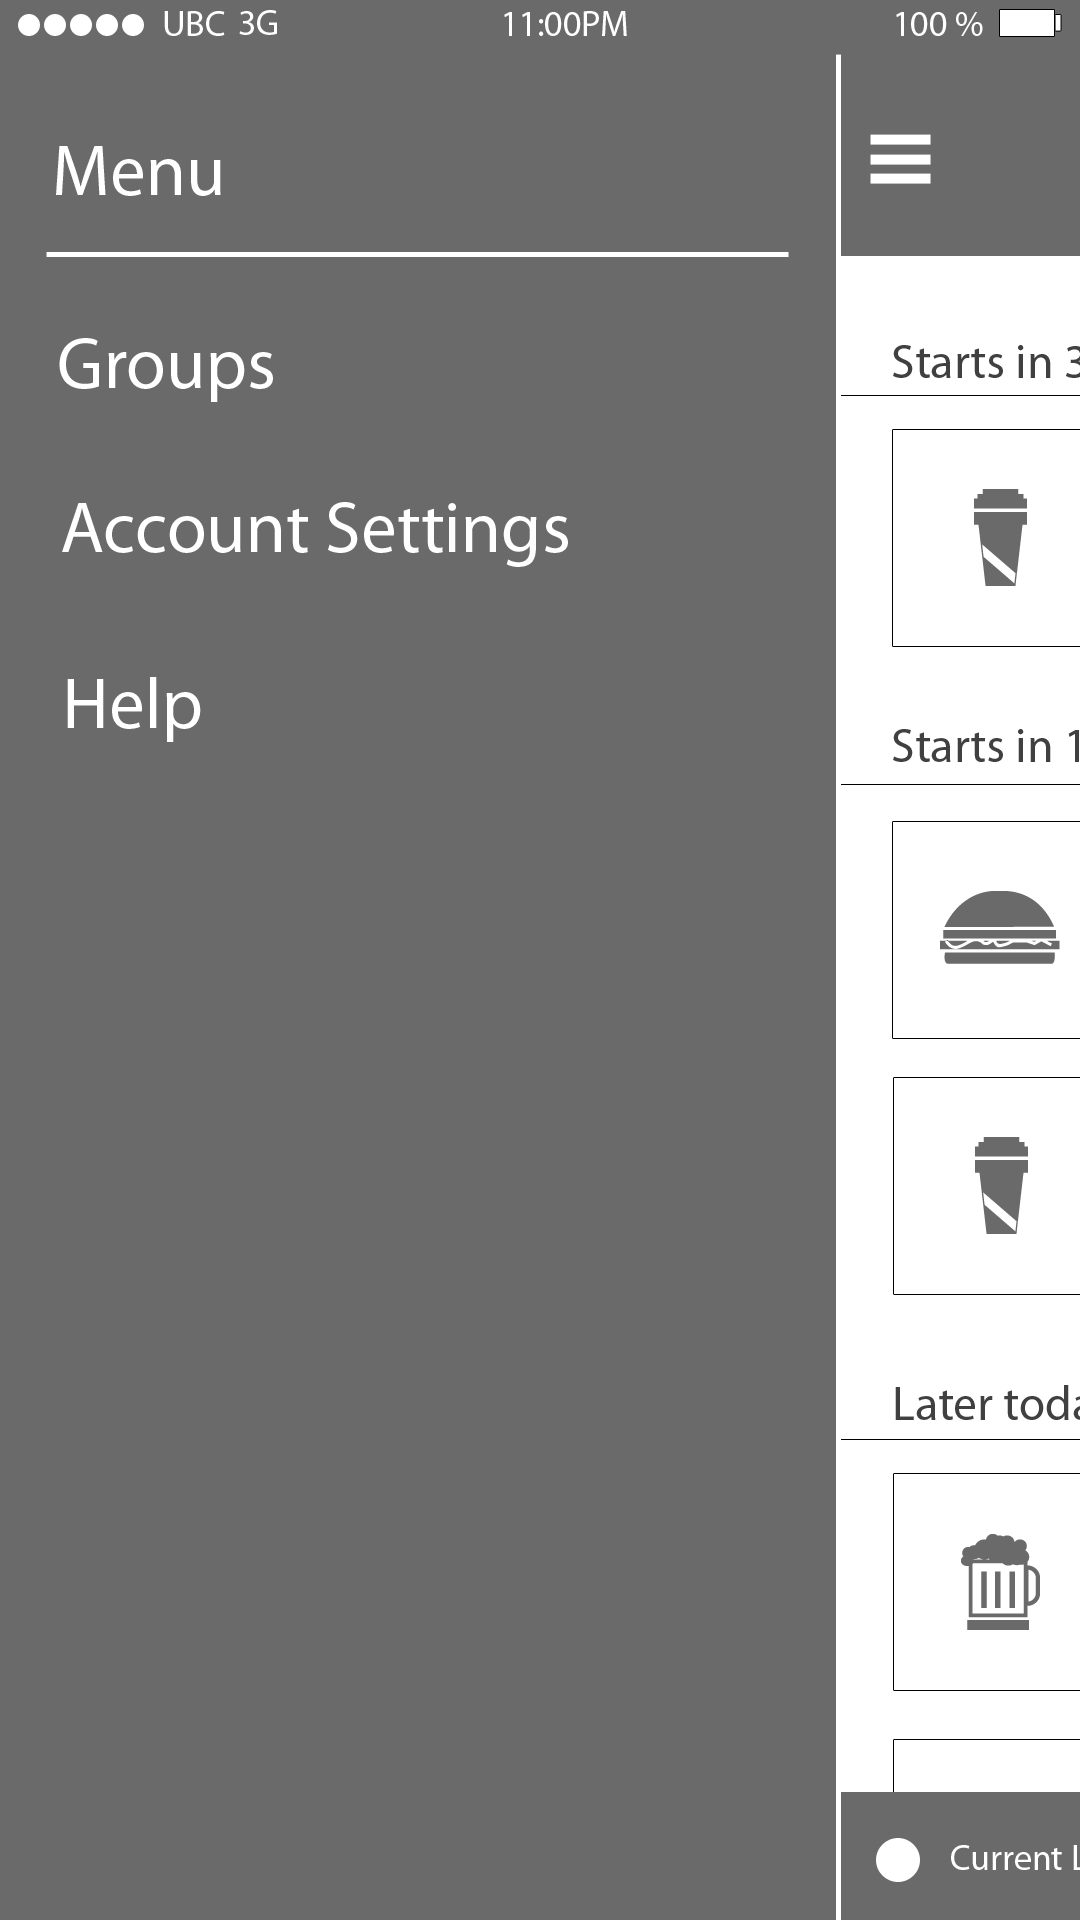
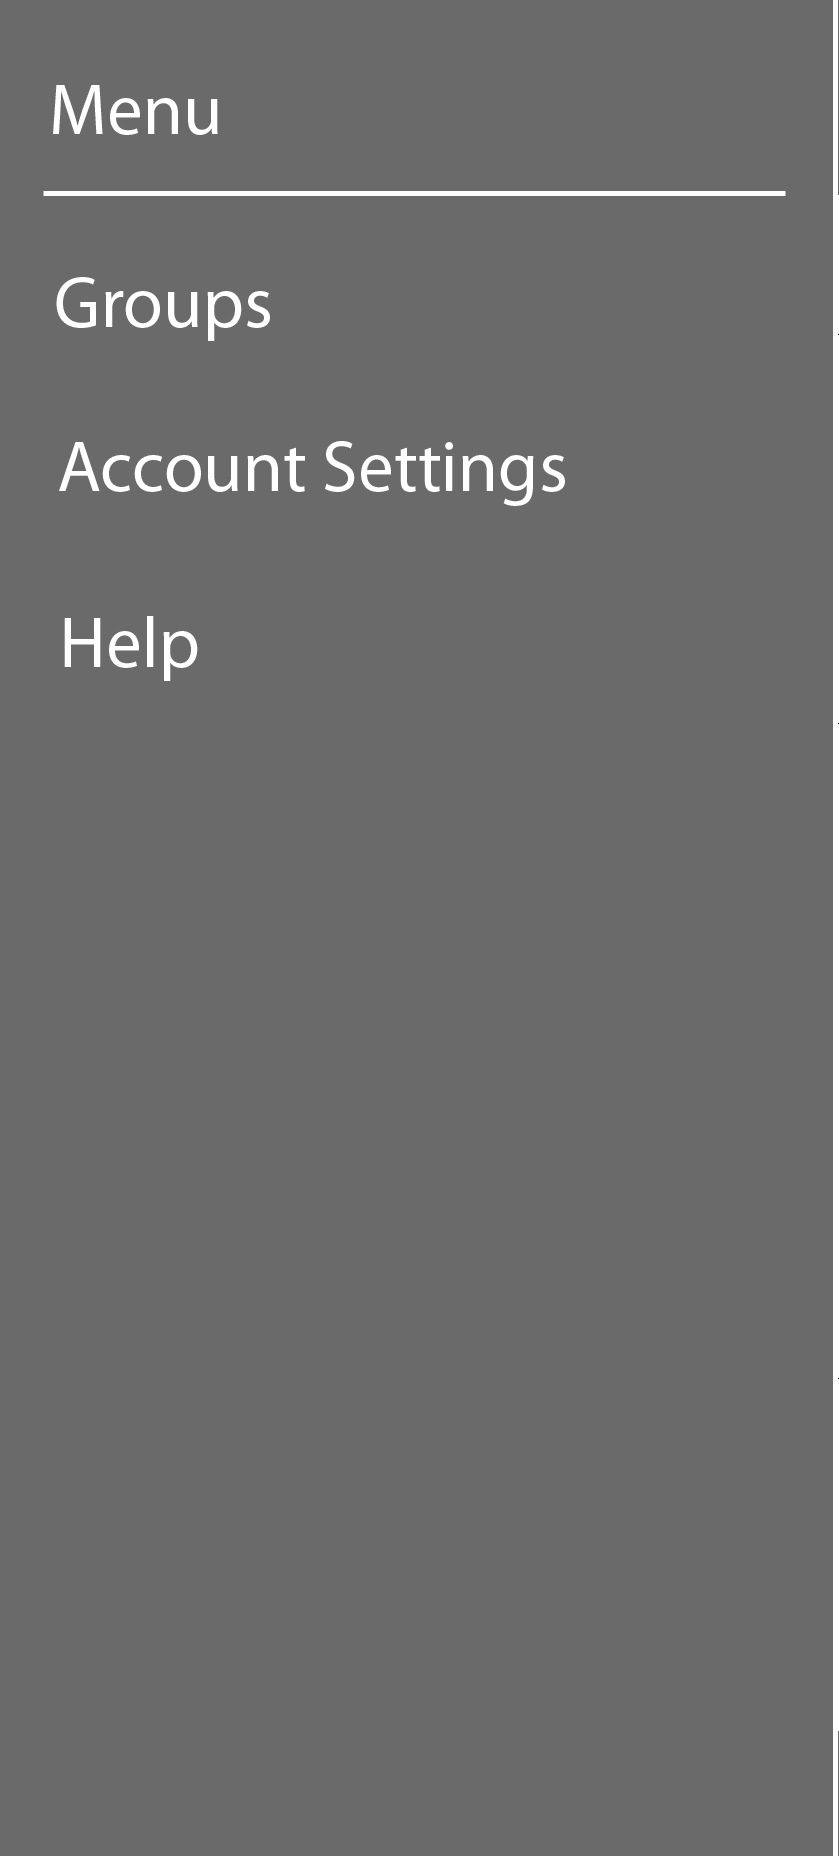
Working main menu scroll out

diff --git a/meetup.js b/meetup.js
@@ -30,6 +30,7 @@ function navigation(target) {
 function clearPage() {
 	$('#textAreas').html("");
 	$('.img').attr('usemap', '');
+	$('#overlayImageBlock').html("");
 }
 
 /**
@@ -57,8 +58,16 @@ function changeScreen(title) {
 
 	if (title == "mainMenu") {
 		// load main menu into overlay block
-		//$('#overlayImageBlock').css();
-		$('#overlayImageBlock').html("<img class='img' src = '" + imageUrl + "' usemap='" + "#" + title + "'>");
+
+		// make sure menu is off screen initially
+		$('#overlayImageBlock').css('left', '-500px');
+		$('#overlayImageBlock').html("<img class='img' src = '" + imageUrl + "'>");
+		$('.img').attr('usemap', title);
+
+		// anime menu to scroll out
+		$("#overlayImageBlock").animate({
+			left:'0px'
+		});
 	} else {
 		// update image block with new image and map
 		$('#imageBlock').html("<img class='img' src = '" + imageUrl + "' usemap='" + "#" + title + "'>");

diff --git a/home.html b/home.html
@@ -32,6 +32,11 @@
 		<area title="mainMenu" shape="rect" coords="5, 35, 67, 90" href="#">
 	</map>
 
+	<!-- map for mainMenu includes: -->
+	<map name="mainMenu">
+		<area title="mainLobby" shape="rect" coords="338, 0, 421, 747" href="#">
+	</map>
+
 	<!-- debug delete this laterz -->
 	<div id="debug"></div>
 

diff --git a/meetup.css b/meetup.css
@@ -9,10 +9,16 @@ body {
 
 #overlayImageBlock {
 	height: 747px;
+	position: absolute;
+	top: 0px;
+	left: -500px;
+}
+div#overlayImageBlock img{
+	height: 747px;
 }
 
-div#imageBlock img{
-	width: 100%;
+div img{
+	height: 100%;
 }
 
 /**HACK HACK HACK**/
